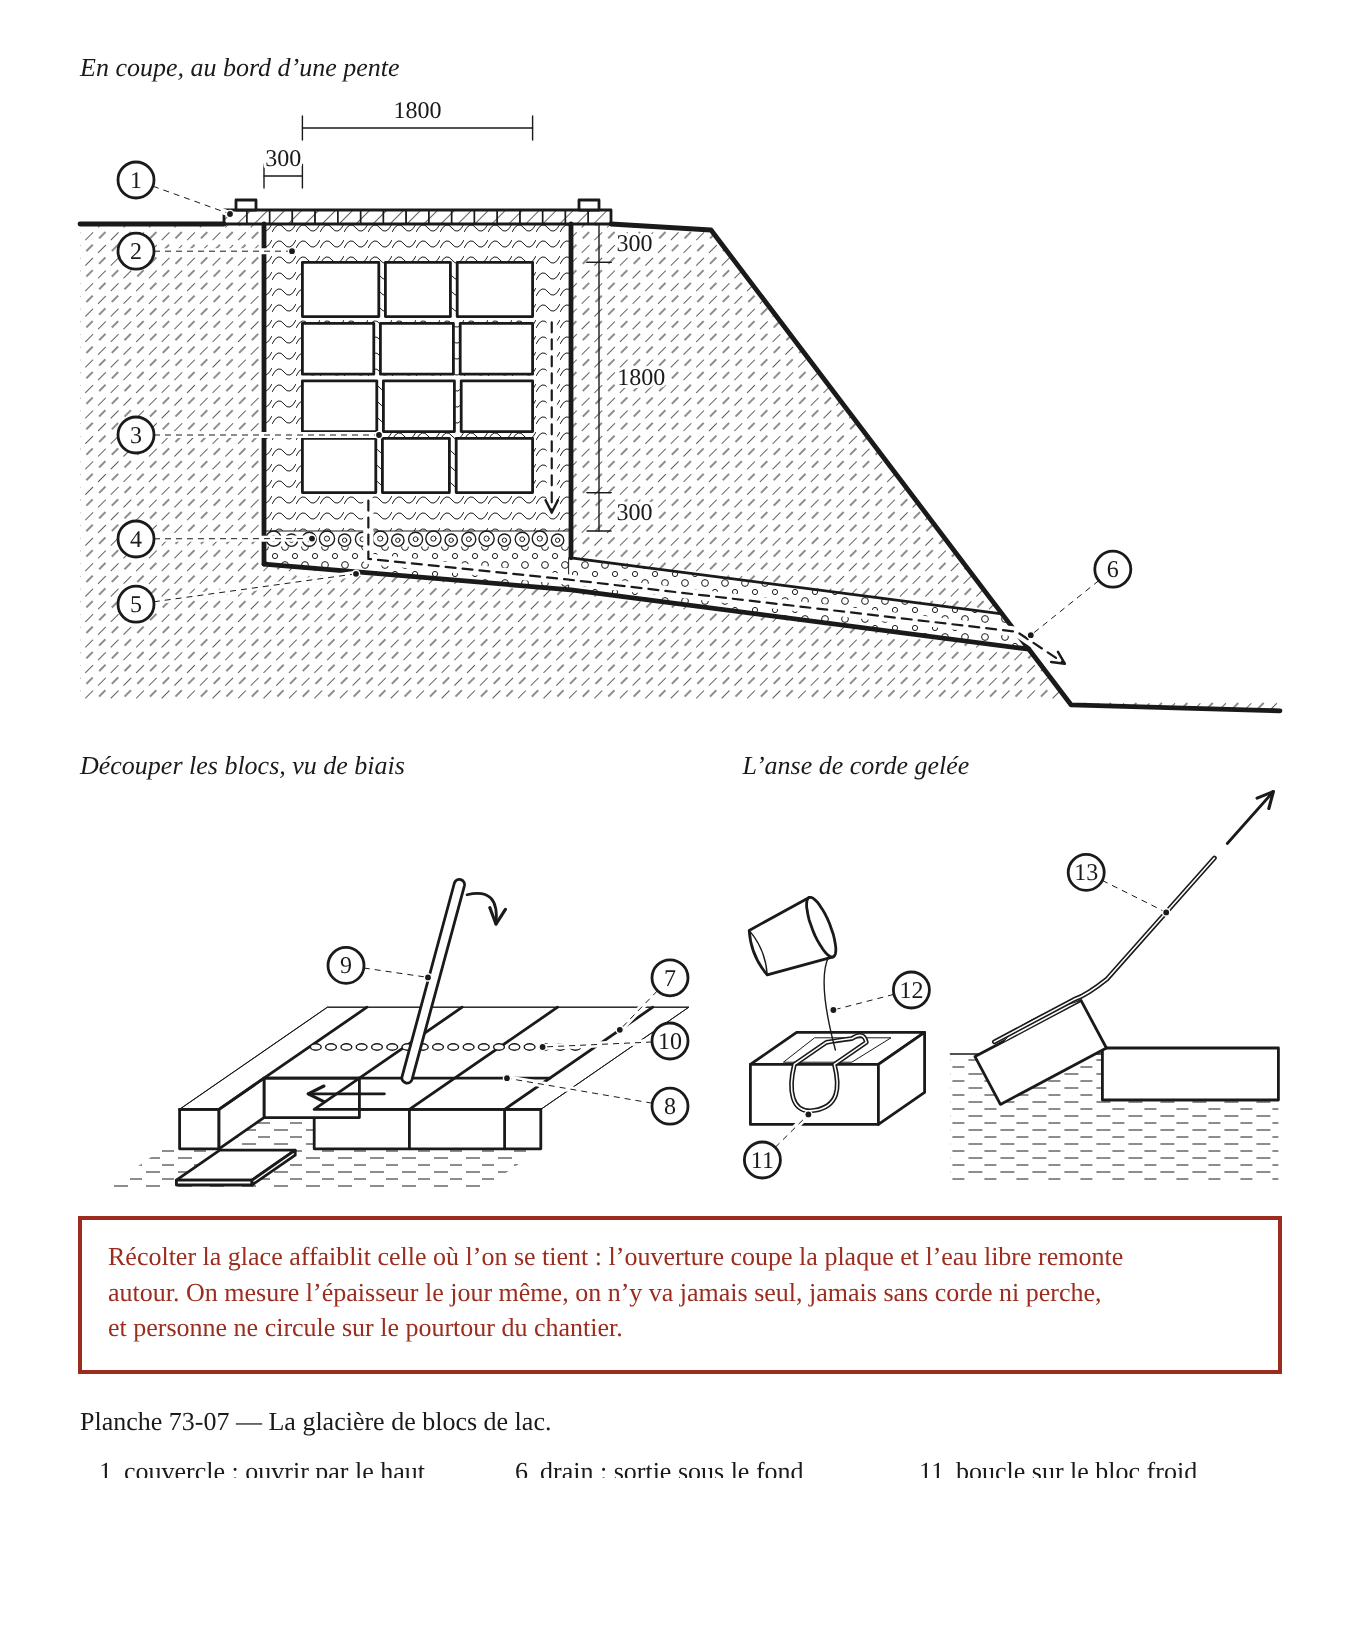
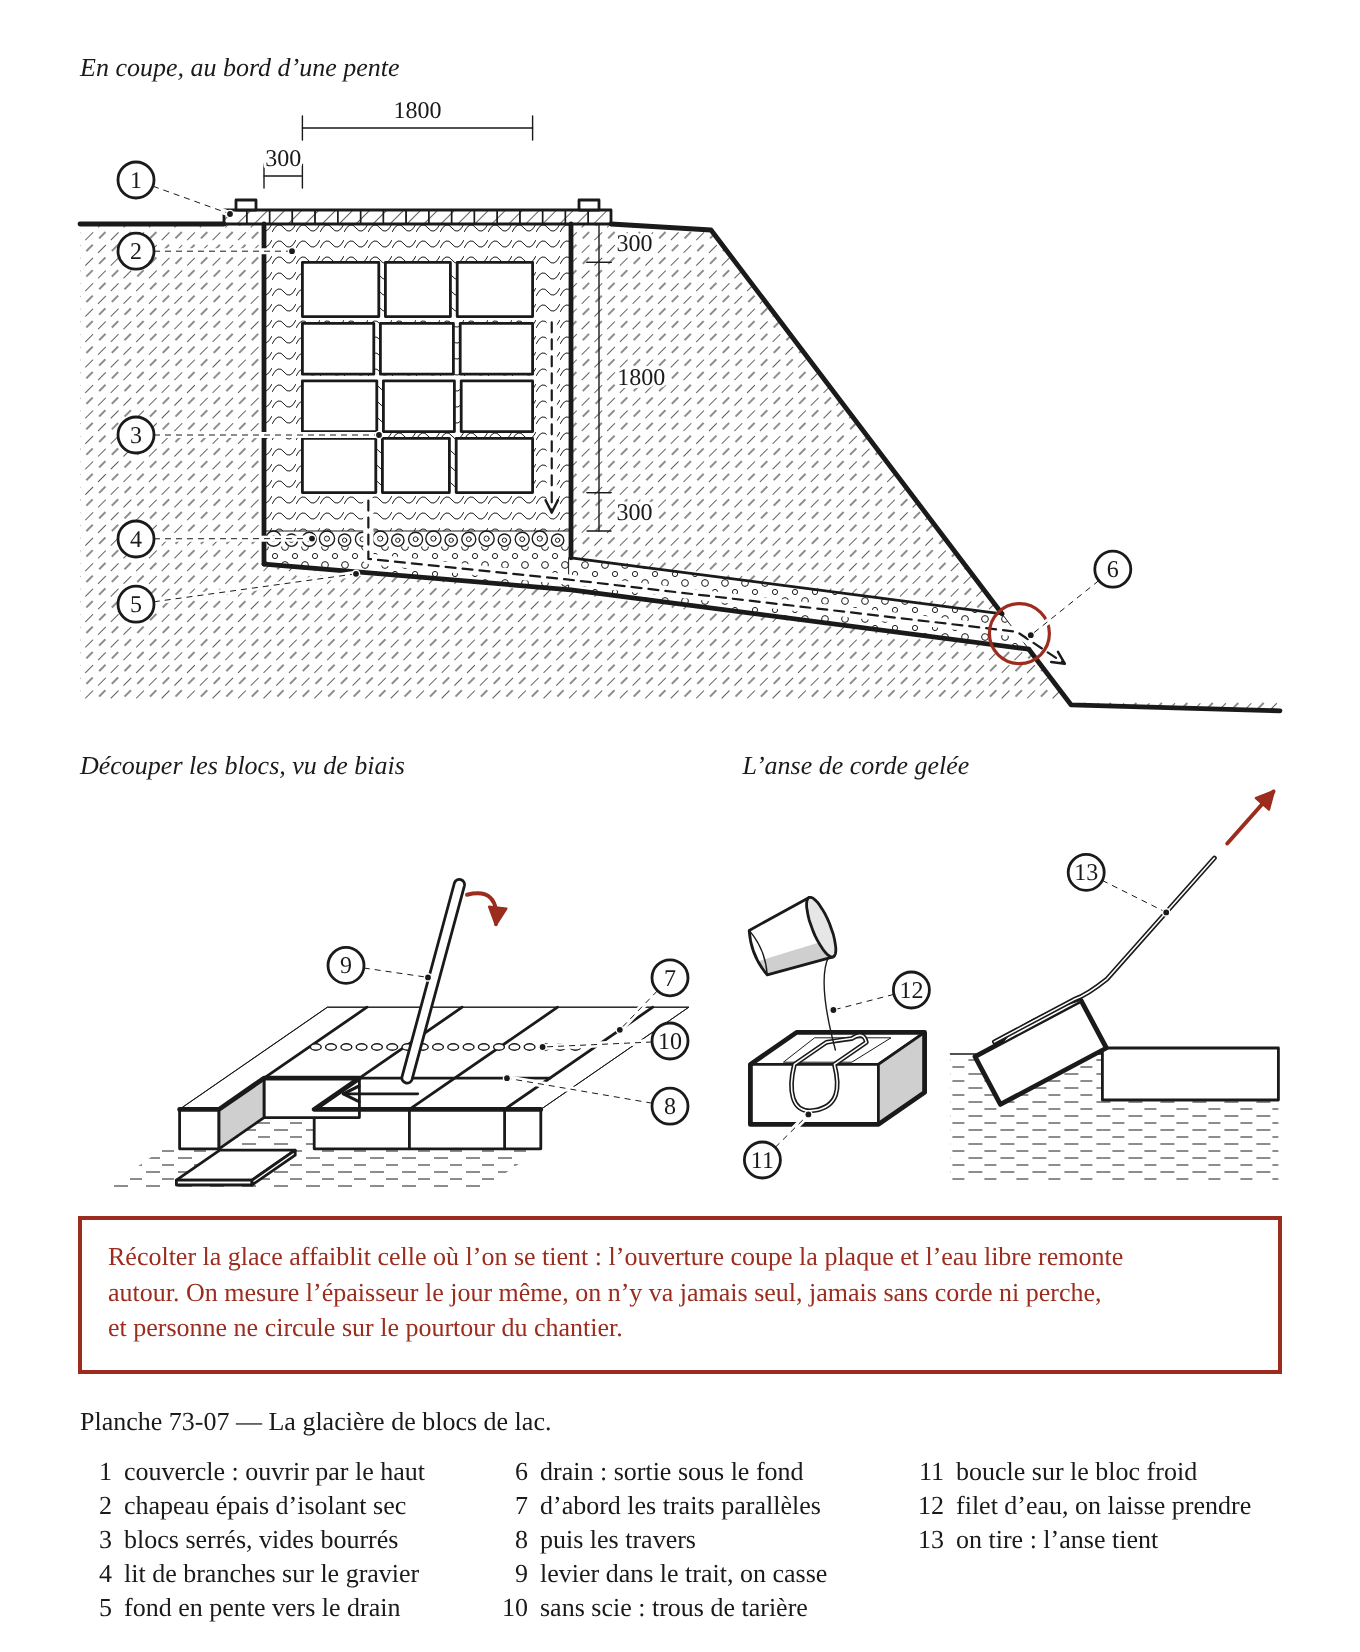
Charte : pilotes 83-10 et 73-07
Claude-Session: https://claude.ai/code/session_014xDY5FLxFXDJt3nYAYznSZ

diff --git a/images/planches-src/73-07.js b/images/planches-src/73-07.js
@@ -3,6 +3,10 @@
 // d'environ 1,8 m de côté (la famille de ferme, 4,5 t). La coupe est à l'échelle de ces deux
 // chiffres. Le lit de branches, le gravier et le drain n'ont pas de cote dans le chapitre :
 // ils n'en ont pas ici.
+// La charte : la coupe hachurée n'a pas de gris ; la paroi de gauche du trou, et la face de droite
+// du bloc à l'anse, à l'ombre ; le dessous de la chaudière à l'ombre et son intérieur en gris loin.
+// Le contour fort sur le bord de la plaque et du trou, et sur le bloc qu'on tire. Le rouge : le
+// levier qu'on tire, la corde qu'on tire, et la sortie du drain, qui doit être plus basse que le fond.
 
 const NOIR = '#1A1A1A';
 const blanc = (a) => a.replace('fill="none"', 'fill="#FFFFFF"');
@@ -126,7 +130,9 @@ module.exports = (h) => {
           out.push(h.ligne(xR, yG, xR, drain(xR, d), h.a.contour));
           // sol de part et d'autre
           out.push(h.chemin([[0, yG], [xL - 20, yG]], h.a.contour));
-          out.push(h.chemin([[xR + 20, yG], [xT, yT], [xB, yB], [L, yB + 3]], h.a.contour));
+          // la pente s'interrompt à la bouche du drain : rien ne la ferme
+          out.push(h.chemin([[xR + 20, yG], [xT, yT], sortH], h.a.contour));
+          out.push(h.chemin([sortB, [xB, yB], [L, yB + 3]], h.a.contour));
           // couvercle de planches jointives, débordant sur le sol, deux traverses dessus
           const n = 17, lp = (W + 40) / n;
           for (let i = 0; i < n; i++) out.push(h.rect(xL - 20 + i * lp, yG - 7, lp, 7, h.a.hachure('bois', 'detail')));
@@ -141,6 +147,8 @@ module.exports = (h) => {
           const dV = `M ${xg1 + e / 2} ${yGlH + 30} L ${xg1 + e / 2} ${yGlB + 10}`;
           out.push(h.path(dF, HALO), h.fleche(dF, TF));
           out.push(h.path(dV, HALO), h.fleche(dV, TF));
+          // le point qui décide : la sortie du drain, plus basse que le fond de la fosse
+          out.push(h.controle((sortB[0] + sortH[0]) / 2 + 2, (sortB[1] + sortH[1]) / 2 + 1, 15));
 
           // cotes : 30 cm et 1,8 m en travers, au-dessus du couvercle
           out.push(h.cote(xL, yG - 24, xg0, yG - 24, '300'));
@@ -180,9 +188,10 @@ module.exports = (h) => {
           for (const [a, b] of [[U0, 0], [bu, U1]]) out.push(h.chemin([P(a, 0), P(b, 0), P(b, 0, wE), P(a, 0, wE)], blanc(h.a.arete), true));
           // parois du trou : le fond (face avant du bloc de derrière) et le côté gauche
           out.push(h.chemin([P(0, bv), P(bu, bv), P(bu, bv, wE), P(0, bv, wE)], blanc(h.a.arete), true));
-          out.push(h.chemin([P(0, 0), P(0, bv), P(0, bv, wE), P(0, 0, wE)], blanc(h.a.arete), true));
+          out.push(h.chemin([P(0, 0), P(0, bv), P(0, bv, wE), P(0, 0, wE)], h.a.ombre, true));   // tournée à droite : à l'ombre
+          out.push(h.chemin([P(0, 0), P(0, bv), P(0, bv, wE), P(0, 0, wE)], h.a.arete, true));
           // bords du trou et bord avant, en trait fort
-          out.push(h.chemin([P(U0, 0), P(0, 0), P(0, bv), P(bu, bv), P(bu, 0), P(U1, 0)], h.a.arete));
+          out.push(h.chemin([P(U0, 0), P(0, 0), P(0, bv), P(bu, bv), P(bu, 0), P(U1, 0)], h.a.contour));
           // la plaque continue : bords arrière et côtés en trait fin
           out.push(h.chemin([P(U0, 0, wE), P(U0, 0), P(U0, V1), P(U1, V1), P(U1, 0), P(U1, 0, wE)], h.a.fin));
           // traits de scie parallèles, de bout en bout
@@ -201,9 +210,10 @@ module.exports = (h) => {
           const tip = P(1.5 * bu, bv, 0), top = P(1.5 * bu, bv + 58, 96);
           out.push(perche(tip[0], tip[1], top[0], top[1]));
           const a1 = P(1.5 * bu + 8, bv + 52, 92), a2 = P(1.5 * bu + 8, bv + 84, 62);
-          out.push(h.fleche(`M ${a1[0]} ${a1[1]} Q ${a2[0] + 2} ${a1[1] - 4} ${a2[0]} ${a2[1]}`, h.a.arete));
+          out.push(h.geste(`M ${a1[0]} ${a1[1]} Q ${a2[0] + 2} ${a1[1] - 4} ${a2[0]} ${a2[1]}`));
           // le bloc poussé vers l'eau
-          const b1 = P(1.5 * bu, 0.5 * bv, 0), b2 = P(0.7 * bu, 0.5 * bv, 0);
+          // (la flèche s'arrête au bord du trou au lieu de le traverser)
+          const b1 = P(1.85 * bu, 0.5 * bv, 0), b2 = P(bu + 4, 0.5 * bv, 0);
           out.push(h.fleche(`M ${b1[0]} ${b1[1]} L ${b2[0]} ${b2[1]}`, h.a.arete));
           return out.join('\n');
         },
@@ -228,7 +238,9 @@ module.exports = (h) => {
           // le bloc, vu de biais
           out.push(h.chemin([P(0, 0, 0), P(U, 0, 0), P(U, V, 0), P(0, V, 0)], blanc(h.a.arete), true));
           out.push(h.chemin([P(0, 0, 0), P(U, 0, 0), P(U, 0, -Wb), P(0, 0, -Wb)], blanc(h.a.arete), true));
-          out.push(h.chemin([P(U, 0, 0), P(U, V, 0), P(U, V, -Wb), P(U, 0, -Wb)], blanc(h.a.arete), true));
+          out.push(h.chemin([P(U, 0, 0), P(U, V, 0), P(U, V, -Wb), P(U, 0, -Wb)], h.a.ombre, true));   // face de droite, à l'ombre
+          out.push(h.chemin([P(U, 0, 0), P(U, V, 0), P(U, V, -Wb), P(U, 0, -Wb)], h.a.arete, true));
+          out.push(h.chemin([P(0, 0, -Wb), P(0, 0, 0), P(0, V, 0), P(U, V, 0), P(U, V, -Wb), P(U, 0, -Wb)], h.a.contour, true));
           // la glace versée : une plaque mince qui couvre la boucle sur le dessus
           const gv = [P(15, 3, 0), P(49, 3, 0), P(51, 35, 0), P(13, 35, 0)];
           out.push(h.chemin(gv, h.a.fin, true));
@@ -242,10 +254,14 @@ module.exports = (h) => {
           const R = (x, y) => [lv[0] + x * ca - y * sa, lv[1] + x * sa + y * ca];
           const Rs = (arr) => arr.map((p) => R(p[0], p[1]));
           // corps effilé vers le fond, bord roulé en ellipse ; repère : ouverture en y = 0, fond en y = 34
-          out.push(h.path(`M ${pts(Rs([[-16, 0]]))} L ${pts(Rs([[-12, 34]]))} Q ${pts(Rs([[0, 38]]))} ${pts(Rs([[12, 34]]))} L ${pts(Rs([[16, 0]]))} Z`, blanc(h.a.arete)));
+          // le côté de dessous, à l'ombre (en x positif dans le repère de la chaudière) ; l'ouverture couvre le haut
+          out.push(h.path(`M ${pts(Rs([[-16, 0]]))} L ${pts(Rs([[-12, 34]]))} Q ${pts(Rs([[0, 38]]))} ${pts(Rs([[12, 34]]))} L ${pts(Rs([[16, 0]]))} Z`, h.a.blanc));
+          out.push(h.path(`M ${pts(Rs([[7, 0]]))} L ${pts(Rs([[16, 0]]))} L ${pts(Rs([[12, 34]]))} Q ${pts(Rs([[8, 35.3]]))} ${pts(Rs([[4, 35.8]]))} Z`, h.a.ombre));
+          out.push(h.path(`M ${pts(Rs([[-16, 0]]))} L ${pts(Rs([[-12, 34]]))} Q ${pts(Rs([[0, 38]]))} ${pts(Rs([[12, 34]]))} L ${pts(Rs([[16, 0]]))} Z`, h.a.arete));
           out.push(h.path(`M ${pts(Rs([[-12, 34]]))} Q ${pts(Rs([[0, 30]]))} ${pts(Rs([[12, 34]]))}`, h.a.detail));
           const e0 = R(0, 0);
-          out.push(h.chemin(Array.from({ length: 36 }, (_, i) => R(16 * Math.cos(i * Math.PI / 18), 4.5 * Math.sin(i * Math.PI / 18))), blanc(h.a.arete), true));
+          const ouv = Array.from({ length: 36 }, (_, i) => R(16 * Math.cos(i * Math.PI / 18), 4.5 * Math.sin(i * Math.PI / 18)));
+          out.push(h.chemin(ouv, h.a.loin, true), h.chemin(ouv, h.a.arete, true));   // l'intérieur, vu par l'ouverture
           const f0 = R(15, 2), cib = P(32, 19, 0);
           out.push(h.path(`M ${f0[0].toFixed(1)} ${f0[1].toFixed(1)} Q ${(f0[0] - 6).toFixed(1)} ${(f0[1] + 12).toFixed(1)} ${cib[0].toFixed(1)} ${cib[1].toFixed(1)}`, h.a.detail));
           // à droite : on tire le bloc hors de l'eau par l'anse, il bascule sur le bord
@@ -258,14 +274,14 @@ module.exports = (h) => {
           // bloc incliné : son coin avant sur le bord de la plaque
           // repère du bloc : x vers l'arrière (gauche), y vers le haut
           const q = [B(0, 0), B(bw, 0), B(bw, bh), B(0, bh)];
-          out.push(h.chemin(q, blanc(h.a.arete), true));
+          out.push(h.chemin(q, blanc(h.a.contour), true));
           // la corde prise dans la glace du dessus, puis libre vers la main
           const r0 = B(bw - 12, bh + 2), r1 = B(3, bh + 2);
           out.push(h.path(`M ${B(bw - 16, bh)[0]} ${B(bw - 16, bh)[1]} Q ${B(bw / 2, bh + 6)[0]} ${B(bw / 2, bh + 6)[1]} ${B(0, bh)[0]} ${B(0, bh)[1]}`, blanc(h.a.fin)));
           const fin = libre(1);
           out.push(corde(`M ${r0[0]} ${r0[1]} L ${r1[0]} ${r1[1]} Q ${r2[0]} ${r2[1]} ${r2[0] + 10} ${r2[1] - 8} L ${fin[0]} ${fin[1]}`));
           const fa = libre(1.12), fb = libre(1.55);
-          out.push(h.fleche(`M ${fa[0]} ${fa[1]} L ${fb[0]} ${fb[1]}`, h.a.arete));
+          out.push(h.geste(`M ${fa[0]} ${fa[1]} L ${fb[0]} ${fb[1]}`));
           return out.join('\n');
         },
         renvois: (z) => {
